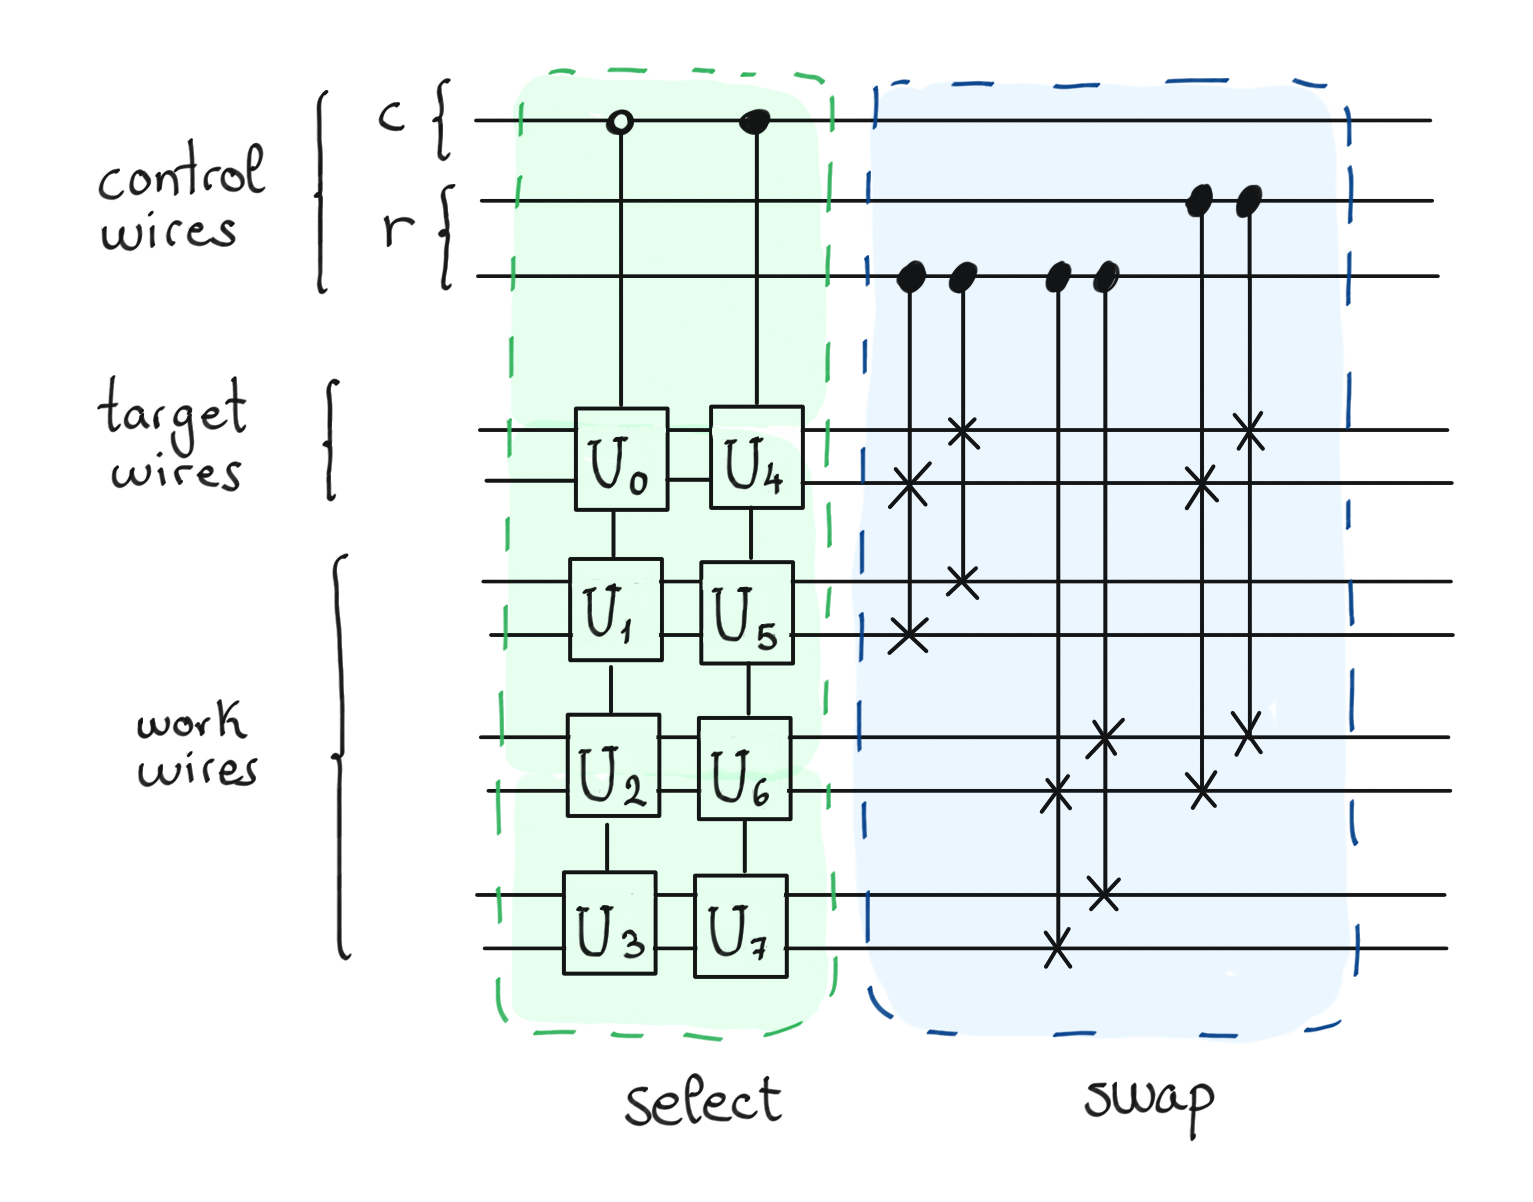
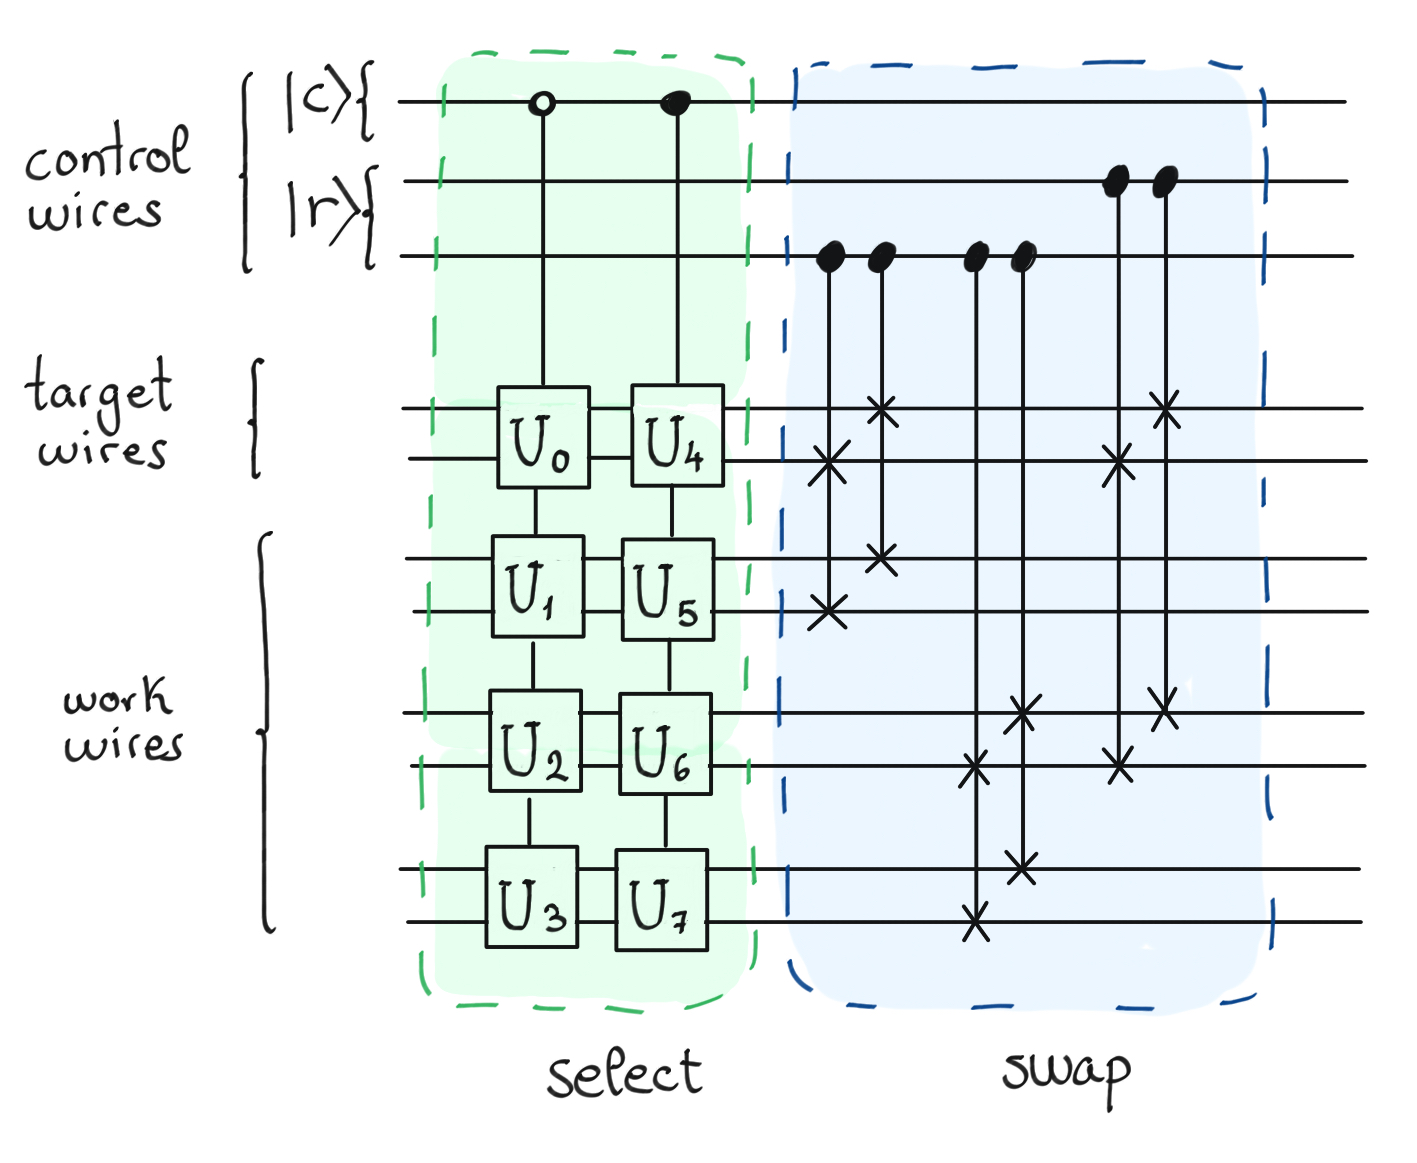
some Emiliano's clarifications

diff --git a/demonstrations/tutorial_intro_qrom.py b/demonstrations/tutorial_intro_qrom.py
@@ -135,29 +135,29 @@ for i in range(8):
 #    :width: 90%
 #    :target: javascript:void(0)
 #
-# To see how this circuit works, let's suppose we want to load the bitstring :math:`b_{cr}`, in the target wires.
+# To see how this circuit works, let's suppose we want to load the bitstring :math:`b_{cr}` in the target wires, where :math:`cr` is the integer whose binary representation is :math:`|c\rangle|r\rangle`.
 # We can summarize the idea in a few simple steps:
 #
-# 1. **We start by generating the uniform superposition on the r-th register**. To do this, we put the Hadamard in the target wires and moved it to the :math:`r` -row with the swap block.
+# 1. **We start by generating the uniform superposition on the r-th register**. To do this, we put the Hadamard in the target wires and moved it to the :math:`r` -row with the swap block. We denote by :math:`R` the number of rows.
 #
 # .. math::
-#       |c\rangle |r\rangle |0\rangle |0\rangle \dots |+\rangle_r \dots |0\rangle
+#       |c\rangle |r\rangle |0\rangle_0 |0\rangle_1 \dots |+\rangle_r \dots |0\rangle_{R-1}
 #
 # 2. **We apply the Select block.** Note that in the :math:`r`-th position, the Select has no effect since the state :math:`|+\rangle` is not modified by :math:`X` gates.
 #
 # .. math::
-#       |c\rangle |r\rangle |b_{c0}\rangle |b_{c1}\rangle \dots |+\rangle_r \dots |b_{cR}\rangle
+#       |c\rangle |r\rangle |b_{c0}\rangle_0 |b_{c1}\rangle_1 \dots |+\rangle_r \dots |b_{c(R-1)}\rangle_{R-1}
 #
 #
 # 3. **We apply the Hadamard's in r-th register.** The two swap blocks and the Hadamard gate in target wires achieve this.
 #
 # .. math::
-#       |c\rangle |r\rangle |b_{c0}\rangle |b_{c1}\rangle \dots |0\rangle_r \dots |b_{cR}\rangle
+#       |c\rangle |r\rangle |b_{c0}\rangle_0 |b_{c1}\rangle_1 \dots |0\rangle_r \dots |b_{c(R-1)}\rangle_{R-1}
 #
 # 4. **We apply Select again to the state.** Note that loading the bitstring twice in the same register leaves the state as :math:`|0\rangle`. (:math:`X^2 = \mathbb{I}`)
 #
 # .. math::
-#       |c\rangle |r\rangle |0\rangle |0\rangle \dots |b_{cr}\rangle_r \dots |0\rangle
+#       |c\rangle |r\rangle |0\rangle_0 |0\rangle_1 \dots |b_{cr}\rangle_r \dots |0\rangle_{R-1}
 #
 # That's it! With a last swap we have managed to load the bitstring of column :math:`c` and row :math:`r` in the target wires.
 #
